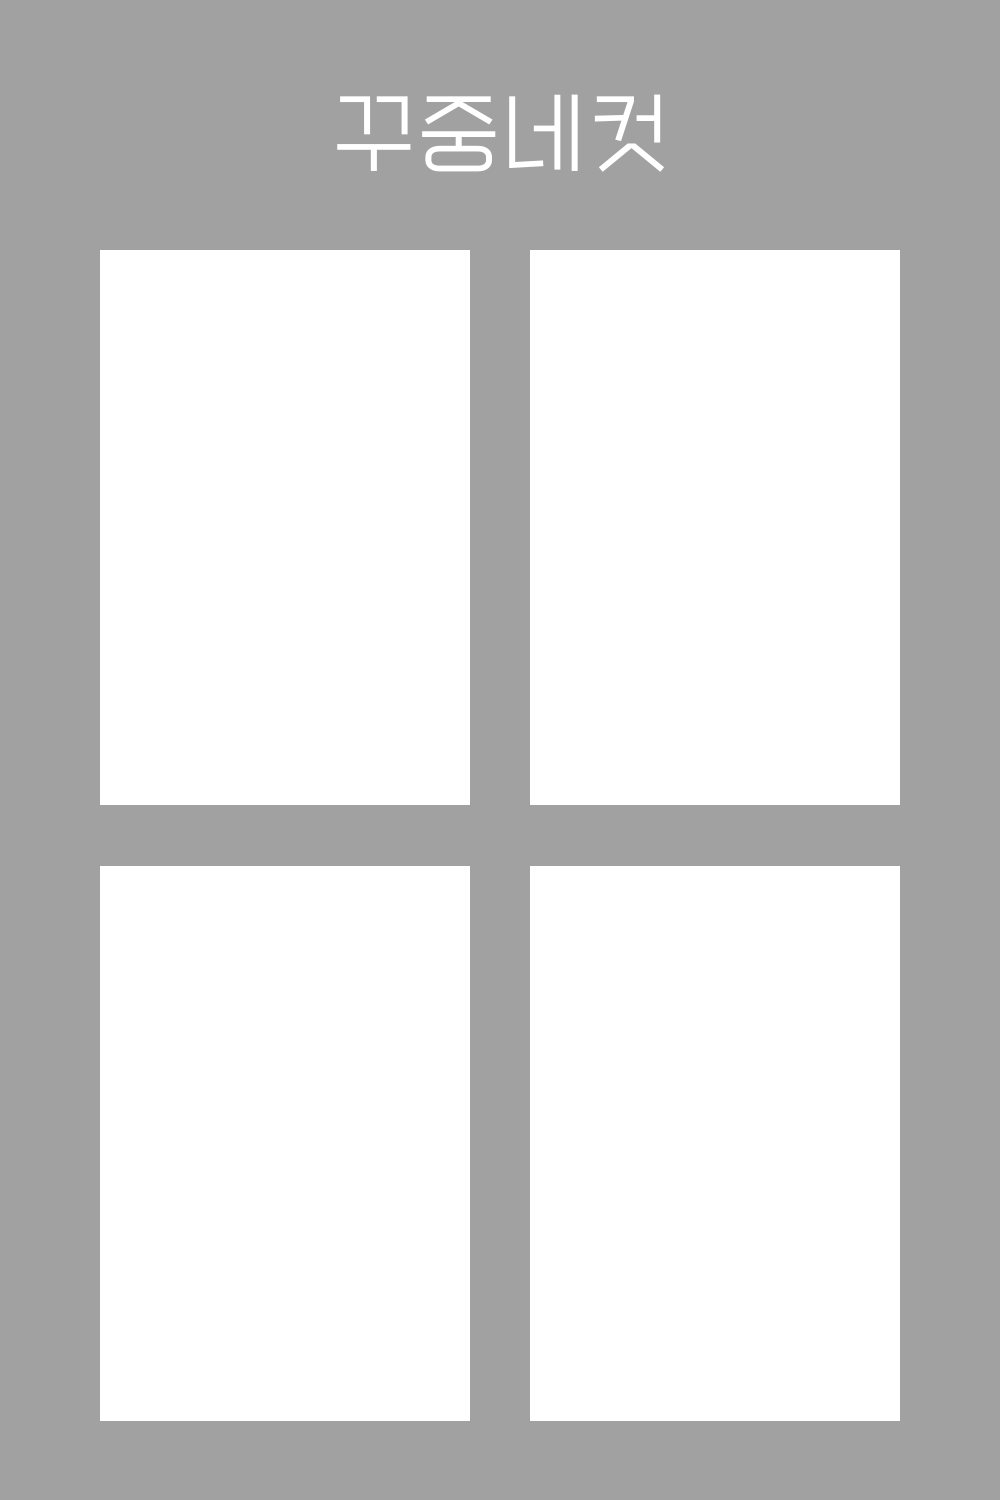
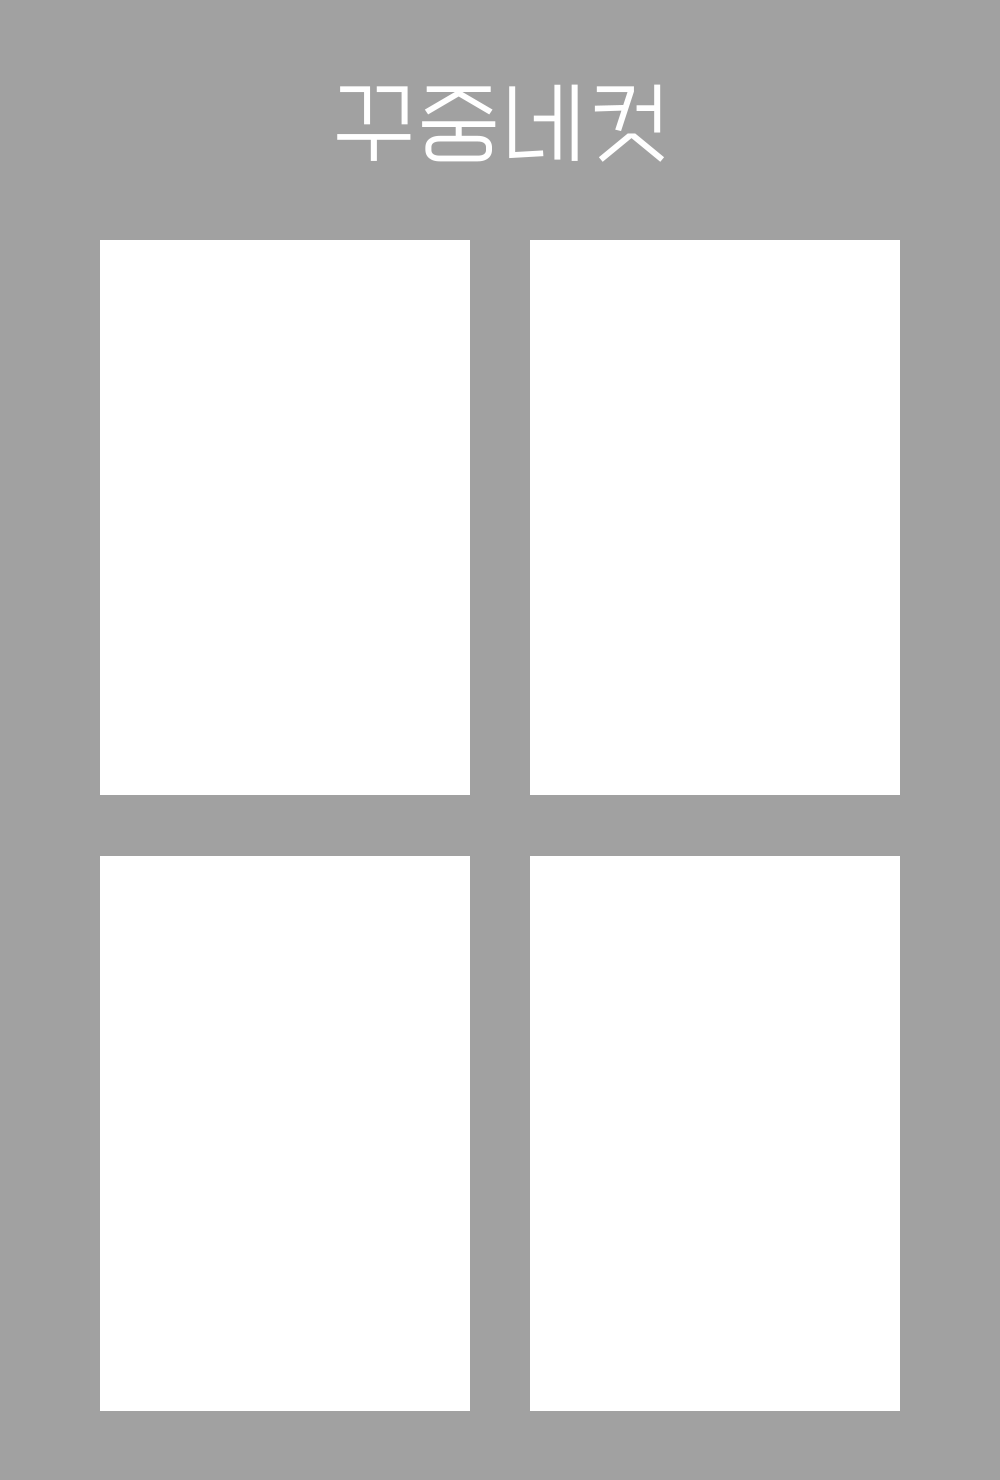
chore: add function

diff --git a/fe/src/pages/Photoselect.tsx b/fe/src/pages/Photoselect.tsx
@@ -39,7 +39,7 @@ export default function Photoselect() {
   );
 
   // 타이머
-  const { sec } = useCountdown({
+  const { sec,pause } = useCountdown({
     seconds: 10,
     autostart: true,
     onExpire: async()=>{
@@ -126,7 +126,7 @@ export default function Photoselect() {
   // 프레임(2:3) 컨테이너의 실제 너비/높이
   const frameW = tileW > 0 ? tileW * 2 + GAP + PAD * 2 : 0;
   //const frameH = frameW > 0 ? Math.round(frameW * 1.5) : 0; // (참고용, 현재 미사용)
-
+  let notClick = true;
   return (
     <div className="relative w-screen h-screen bg-[#CFAB8D]">
       {/* 흰색 인셋 박스 */}
@@ -215,11 +215,13 @@ export default function Photoselect() {
         </div>
 
         {/* 하단: Next (정확히 4장일 때만 활성화) */}
-        {isExactFour && (
+        {notClick && isExactFour && (
           <div className="absolute right-8 bottom-8 z-20">
             <button
               type="button"
               onClick={async () => {
+                pause();
+                notClick = false;
                 try {
                   const response = await saveComposedQuadAsFile(
                     { slots, photos: sortedPhotos, frameImg },

diff --git a/fe/src/lib/composePhotoQuad.ts b/fe/src/lib/composePhotoQuad.ts
@@ -68,8 +68,8 @@ export async function composeQuadImage(
   options: ComposeOptions = {}
 ): Promise<Blob> {
   const {
-    design = { w: 1000, h: 1500 },
-    base = { x: 100, y: 250, w: 370, h: 555 },
+    design = { w: 1000, h: 1480 },
+    base = { x: 100, y: 240, w: 370, h: 555 },
     gap = { x: 60, y: 61 },
     count = 4,
     drawEmptyGuide = true,

diff --git a/fe/src/components/ResponsivePhotoQuad.tsx b/fe/src/components/ResponsivePhotoQuad.tsx
@@ -35,7 +35,7 @@ type Props = {
 
 export function ResponsivePhotoQuad({
   design = { w: 1000, h: 1500 },
-  base = { x: 100, y: 250, w: 370, h: 555 },
+  base = { x: 100, y: 240, w: 370, h: 555 },
   gap = { x: 60, y: 61 },
   count = 4,
 
